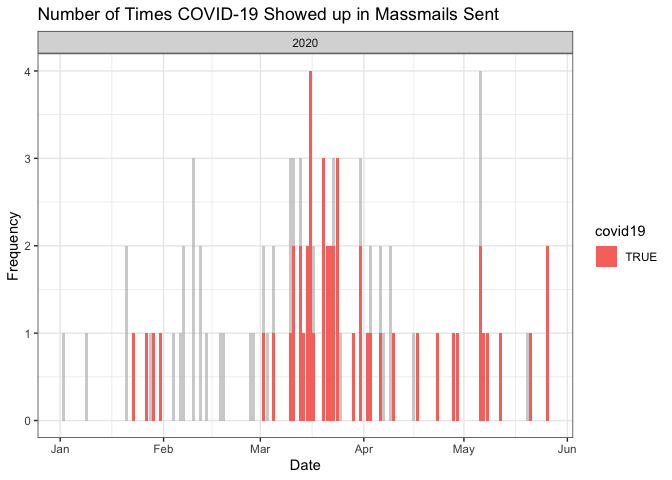
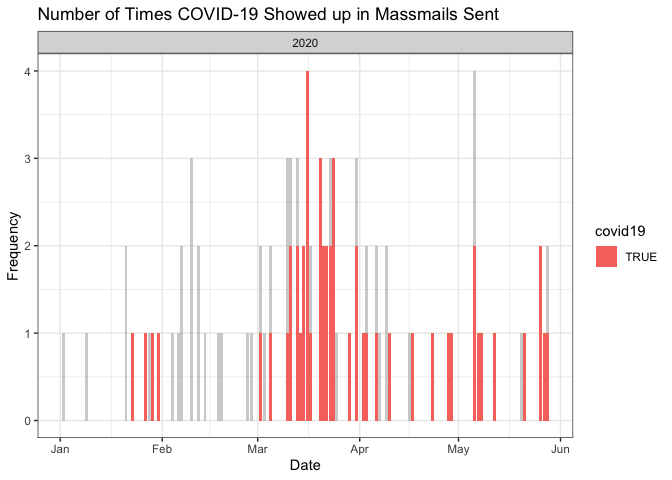
Re-build README.Rmd and Graphs

diff --git a/README.md b/README.md
@@ -17,7 +17,7 @@ The archive may be viewed here:
 
 <https://massmail.illinois.edu/massmailArchive>
 
-Data has **1131** observations and **7** variables:
+Data has **1134** observations and **7** variables:
 
   - `datetime`: Date and time when the email was sent in the form of
     `YYYY-MM-DD HMS` with either CDT or CST.
@@ -205,16 +205,16 @@ head(most_popular_words, 10) %>%
 
 | word        | freq |
 | :---------- | ---: |
-| students    |  332 |
-| university  |  269 |
-| campus      |  257 |
-| faculty     |  159 |
-| illinois    |  154 |
-| information |  138 |
-| community   |  134 |
-| staff       |  131 |
+| students    |  334 |
+| university  |  277 |
+| campus      |  271 |
+| faculty     |  160 |
+| illinois    |  158 |
+| information |  141 |
+| community   |  136 |
+| staff       |  132 |
 | student     |  131 |
-| health      |  124 |
+| health      |  128 |
 
 #### Wordcloud
 
